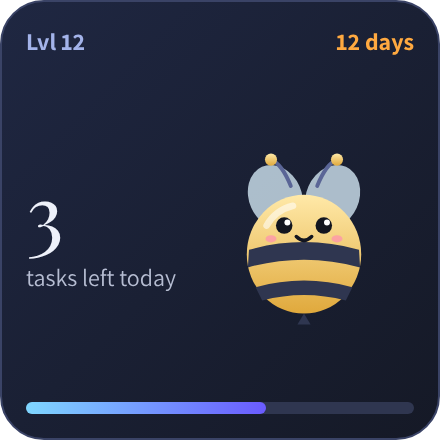
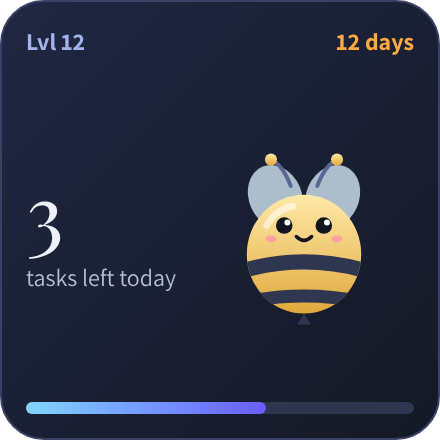
Bizzy: lower the top stripe, away from the face
Fabian found the upper stripe too close to the face. Both stripes move down
and are now cut to the body's outline, so they always fit.

Claude-Session: https://claude.ai/code/session_01Dtnc72hdQgu3T3hfFcnKFG

Changed region(s): [[0.5614, 0.5318, 0.8273, 0.7091]]

diff --git a/src/bizzy.ts b/src/bizzy.ts
@@ -83,15 +83,16 @@ function waveArms(): string {
 export function bizzySvg(mood: BizzyMood = 'happy', shadow = true): string {
   return (
     `<svg xmlns="http://www.w3.org/2000/svg" viewBox="0 0 200 200" width="200" height="200">` +
-    `<defs><linearGradient id="bzg" x1="0" y1="0" x2="0" y2="1"><stop offset="0" stop-color="#FFE9A8"/><stop offset="1" stop-color="#E0A93C"/></linearGradient></defs>` +
+    `<defs><linearGradient id="bzg" x1="0" y1="0" x2="0" y2="1"><stop offset="0" stop-color="#FFE9A8"/><stop offset="1" stop-color="#E0A93C"/></linearGradient><clipPath id="bzc"><ellipse cx="100" cy="122" rx="52" ry="54"/></clipPath></defs>` +
     (shadow ? `<ellipse cx="100" cy="186" rx="42" ry="7" fill="#000" opacity=".3"/>` : '') +
     `<ellipse cx="74" cy="70" rx="24" ry="30" fill="#DDF3FF" opacity=".75" transform="rotate(-24 74 70)"/>` +
     `<ellipse cx="126" cy="70" rx="24" ry="30" fill="#DDF3FF" opacity=".75" transform="rotate(24 126 70)"/>` +
     `<path d="M88 60 Q80 40 70 36 M112 60 Q120 40 130 36" fill="none" stroke="${LEG}" stroke-width="3.5" stroke-linecap="round"/>` +
     `<circle cx="70" cy="36" r="5.5" fill="url(#bzg)"/><circle cx="130" cy="36" r="5.5" fill="url(#bzg)"/>` +
     `<ellipse cx="100" cy="122" rx="52" ry="54" fill="url(#bzg)"/>` +
-    `<path d="M50 118 Q100 104 150 118 L151 134 Q100 120 49 134Z" fill="${NAVY}"/>` +
-    `<path d="M56 152 Q100 140 144 152 L138 164 Q100 154 62 164Z" fill="${NAVY}"/>` +
+    // Stripes are cut to the body's outline; the top one sits well below the mouth.
+    `<g clip-path="url(#bzc)"><path d="M44 130 Q100 114 156 130 L156 144 Q100 128 44 144Z" fill="${NAVY}"/>` +
+    `<path d="M44 160 Q100 148 156 160 L156 172 Q100 160 44 172Z" fill="${NAVY}"/></g>` +
     `<path d="M66 96 Q74 82 90 78" fill="none" stroke="#fff" stroke-width="6" stroke-linecap="round" opacity=".55"/>` +
     face(mood) +
     `<path d="M100 176 L94 186 L106 186Z" fill="${NAVY}"/>` +
